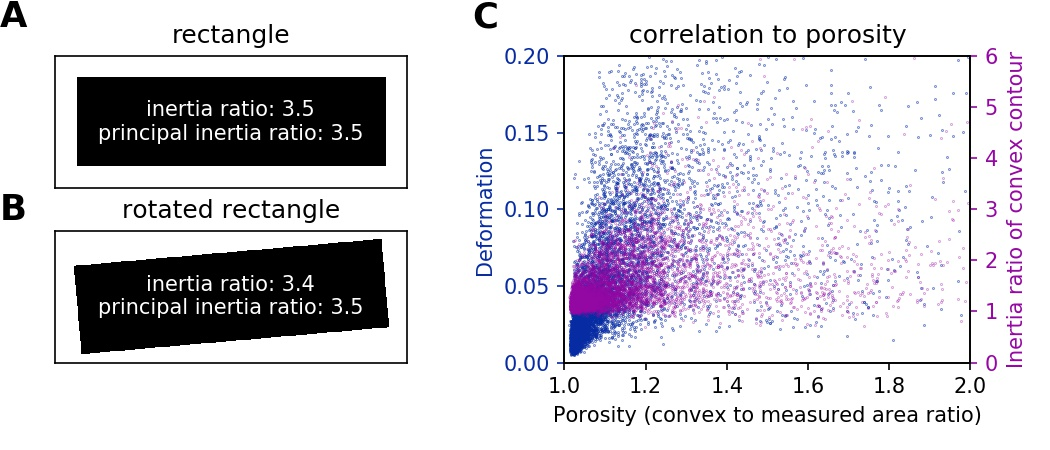
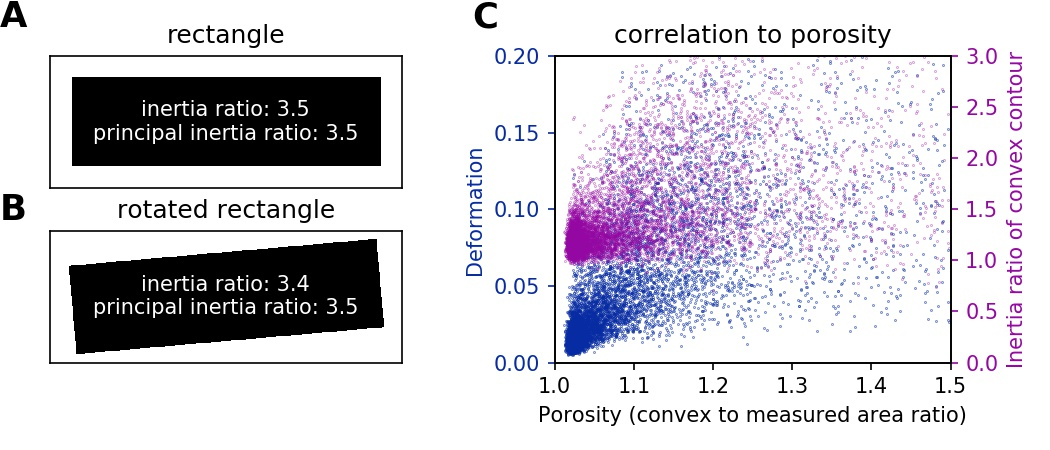
make it more obvious

diff --git a/docs/figures/inert_ratio.py b/docs/figures/inert_ratio.py
@@ -61,7 +61,7 @@ ax3a.scatter(ds["area_ratio"], ds["deform"], s=.2,
 ax3a.tick_params('y', colors='#072BA3')
 ax3a.set_xlabel(dclab.dfn.feature_name2label["area_ratio"])
 ax3a.set_ylabel(dclab.dfn.feature_name2label["deform"], color='#072BA3')
-ax3a.set_xlim(1, 2)
+ax3a.set_xlim(1, 1.5)
 ax3a.set_ylim(0, .2)
 
 
@@ -71,7 +71,7 @@ ax3b.scatter(ds["area_ratio"], ds["inert_ratio_cvx"], s=.1,
 ax3b.tick_params('y', colors='#9507A3')
 ax3b.set_ylabel(dclab.dfn.feature_name2label["inert_ratio_cvx"],
                 color='#9507A3')
-ax3b.set_ylim(0, 6)
+ax3b.set_ylim(0, 3)
 
 
 fig.text(0, 1, "A",
